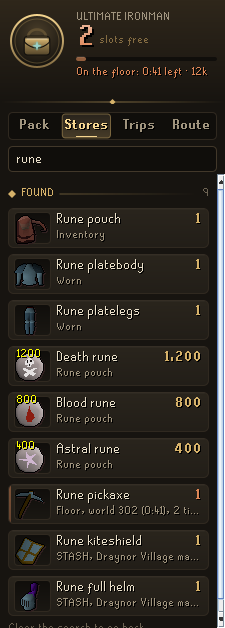
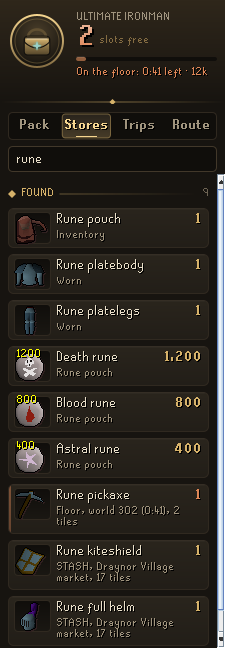
Wrap long names and notes in the panel instead of cutting them off
Rows, card titles and quiet lines now grow to fit their text, so a
deathbank's reclaim note or a noting place always reads in full.

diff --git a/src/main/java/com/codex/nomad/ui/Row.java b/src/main/java/com/codex/nomad/ui/Row.java
@@ -2,11 +2,12 @@ package com.codex.nomad.ui;
 
 import java.awt.BorderLayout;
 import java.awt.Color;
-import java.awt.Dimension;
 import java.awt.FontMetrics;
 import java.awt.Graphics;
 import java.awt.Graphics2D;
 import java.awt.image.BufferedImage;
+import java.util.Collections;
+import java.util.List;
 import javax.swing.JComponent;
 import javax.swing.border.EmptyBorder;
 
@@ -31,7 +32,7 @@ class Row extends Card
 			+ (note == null ? "" : "<br>" + Ui.escape(note)) + "</html>");
 	}
 
-	private static final class Body extends JComponent
+	private static final class Body extends Fitted
 	{
 		private final int icon;
 		private final long qty;
@@ -50,8 +51,13 @@ class Row extends Card
 			this.figure = figure;
 			this.figureColor = figureColor;
 			this.note = note;
-			setOpaque(false);
-			setPreferredSize(new Dimension(10, icon >= 0 ? Row.HEIGHT - 4 : note == null ? 18 : 32));
+		}
+
+		@Override
+		int heightFor(int width)
+		{
+			int h = lay(null, width, icon >= 0 ? Well.SIZE + 10 : 0, 14, 15);
+			return icon >= 0 ? Math.max(Row.HEIGHT - 4, h) : h;
 		}
 
 		@Override
@@ -59,7 +65,6 @@ class Row extends Card
 		{
 			Graphics2D g = (Graphics2D) graphics.create();
 			Theme.smooth(g);
-			int w = getWidth();
 			int x = 0;
 			if (icon >= 0)
 			{
@@ -72,28 +77,55 @@ class Row extends Card
 				}
 				x = Well.SIZE + 10;
 			}
-			g.setFont(Theme.title());
-			FontMetrics bold = g.getFontMetrics();
-			int fw = figure == null ? 0 : bold.stringWidth(figure);
-			if (figure != null)
-			{
-				Ui.shadowed(g, figure, w - fw, 14, figureColor);
-			}
-			g.setFont(Theme.body());
-			FontMetrics body = g.getFontMetrics();
-			Ui.shadowed(g, Ui.clip(name, body, w - x - fw - 6), x, 14, Theme.TEXT);
-			if (note != null)
-			{
-				g.setFont(Theme.small());
-				FontMetrics small = g.getFontMetrics();
-				Ui.shadowed(g, Ui.clip(note, small, w - x), x, 29, Theme.TEXT_MUTED);
-			}
+			lay(g, getWidth(), x, 14, 15);
 			g.dispose();
+		}
+
+		private int lay(Graphics2D g, int w, int x, int top, int gap)
+		{
+			return Row.lay(this, g, w, x, top, gap, name, figure, figureColor, note);
 		}
 	}
 
+	/**
+	 * Paints a name with its figure and a quieter note beneath, both wrapping to the width, or
+	 * with no graphics only measures them.
+	 *
+	 * @return the height used
+	 */
+	static int lay(JComponent c, Graphics2D g, int w, int x, int top, int gap, String name, String figure, Color figureColor, String note)
+	{
+		FontMetrics bold = c.getFontMetrics(Theme.title());
+		FontMetrics body = c.getFontMetrics(Theme.body());
+		FontMetrics small = c.getFontMetrics(Theme.small());
+		int fw = figure == null ? 0 : bold.stringWidth(figure);
+		List<String> names = Ui.wrap(name, body, w - x - fw - 6);
+		List<String> notes = note == null ? Collections.emptyList() : Ui.wrap(note, small, w - x);
+		int noteTop = top + (names.size() - 1) * 13 + gap;
+		int bottom = notes.isEmpty() ? top + (names.size() - 1) * 13 + 4 : noteTop + (notes.size() - 1) * 11 + 4;
+		if (g != null)
+		{
+			if (figure != null)
+			{
+				g.setFont(Theme.title());
+				Ui.shadowed(g, figure, w - fw, top, figureColor);
+			}
+			g.setFont(Theme.body());
+			for (int i = 0; i < names.size(); i++)
+			{
+				Ui.shadowed(g, names.get(i), x, top + i * 13, Theme.TEXT);
+			}
+			g.setFont(Theme.small());
+			for (int i = 0; i < notes.size(); i++)
+			{
+				Ui.shadowed(g, notes.get(i), x, noteTop + i * 11, Theme.TEXT_MUTED);
+			}
+		}
+		return bottom;
+	}
+
 	/** A title and figure with an optional quiet line, for use inside another card. */
-	static final class Plain extends JComponent
+	static final class Plain extends Fitted
 	{
 		private final String name;
 		private final String figure;
@@ -106,9 +138,13 @@ class Row extends Card
 			this.figure = figure == null || figure.isEmpty() ? null : figure;
 			this.figureColor = figureColor;
 			this.note = note == null || note.isEmpty() ? null : note;
-			setOpaque(false);
-			setPreferredSize(new Dimension(10, this.note == null ? 16 : 30));
 			setToolTipText(this.note == null ? name : "<html><b>" + Ui.escape(name) + "</b><br>" + Ui.escape(this.note) + "</html>");
+		}
+
+		@Override
+		int heightFor(int width)
+		{
+			return Row.lay(this, null, width, 0, 13, 14, name, figure, figureColor, note);
 		}
 
 		@Override
@@ -116,21 +152,7 @@ class Row extends Card
 		{
 			Graphics2D g = (Graphics2D) graphics.create();
 			Theme.smooth(g);
-			int w = getWidth();
-			g.setFont(Theme.title());
-			FontMetrics bold = g.getFontMetrics();
-			int fw = figure == null ? 0 : bold.stringWidth(figure);
-			if (figure != null)
-			{
-				Ui.shadowed(g, figure, w - fw, 13, figureColor);
-			}
-			g.setFont(Theme.body());
-			Ui.shadowed(g, Ui.clip(name, g.getFontMetrics(), w - fw - 6), 0, 13, Theme.TEXT);
-			if (note != null)
-			{
-				g.setFont(Theme.small());
-				Ui.shadowed(g, Ui.clip(note, g.getFontMetrics(), w), 0, 27, Theme.TEXT_MUTED);
-			}
+			Row.lay(this, g, getWidth(), 0, 13, 14, name, figure, figureColor, note);
 			g.dispose();
 		}
 	}

diff --git a/src/main/java/com/codex/nomad/ui/Line.java b/src/main/java/com/codex/nomad/ui/Line.java
@@ -1,15 +1,17 @@
 package com.codex.nomad.ui;
 
 import java.awt.Color;
-import java.awt.Dimension;
 import java.awt.FontMetrics;
 import java.awt.Graphics;
 import java.awt.Graphics2D;
 import java.awt.geom.Ellipse2D;
-import javax.swing.JComponent;
+import java.util.List;
 
-/** One quiet line: an optional coloured dot, a label, and a figure to the right. */
-public class Line extends JComponent
+/**
+ * One quiet line: an optional coloured dot, a label, and a figure to the right. A label too long
+ * for the width wraps onto further rows rather than being cut short.
+ */
+public class Line extends Fitted
 {
 	private final String label;
 	private final String figure;
@@ -24,15 +26,45 @@ public class Line extends JComponent
 
 	public Line(String label, String figure, Color dot, Color labelColor, Color figureColor)
 	{
-		this.label = label;
-		this.figure = figure;
+		this.label = label == null ? "" : label;
+		this.figure = figure == null || figure.isEmpty() ? null : figure;
 		this.dot = dot;
 		this.labelColor = labelColor;
 		this.figureColor = figureColor;
-		setOpaque(false);
 		setFont(Theme.small());
-		setPreferredSize(new Dimension(10, 15));
-		setToolTipText(figure == null || figure.isEmpty() ? label : label + ": " + figure);
+		setToolTipText(this.figure == null ? this.label : this.label + ": " + this.figure);
+	}
+
+	/** Leading spaces indent every row of the label, not just the first. */
+	private int indent(FontMetrics fm)
+	{
+		int n = 0;
+		while (n < label.length() && label.charAt(n) == ' ')
+		{
+			n++;
+		}
+		return (dot != null ? 11 : 0) + fm.stringWidth(label.substring(0, n));
+	}
+
+	/** The distance between rows: 13 pixels for the small font, more for a larger one. */
+	private static int row(FontMetrics fm)
+	{
+		return Math.max(13, fm.getAscent() + 4);
+	}
+
+	private List<String> rows(FontMetrics fm, int width)
+	{
+		int fw = figure == null ? 0 : fm.stringWidth(figure) + 6;
+		return Ui.wrap(label.trim(), fm, width - indent(fm) - fw);
+	}
+
+	@Override
+	int heightFor(int width)
+	{
+		FontMetrics fm = getFontMetrics(getFont());
+		int n = rows(fm, width).size();
+		int one = Math.max(15, fm.getAscent() + 6);
+		return n == 1 ? one : n * row(fm) + 2;
 	}
 
 	@Override
@@ -43,20 +75,22 @@ public class Line extends JComponent
 		g.setFont(getFont());
 		FontMetrics fm = g.getFontMetrics();
 		int w = getWidth();
-		int base = (getHeight() + fm.getAscent()) / 2 - 1;
-		int x = 0;
+		List<String> rows = rows(fm, w);
+		int base = rows.size() == 1 ? (getHeight() + fm.getAscent()) / 2 - 1 : fm.getAscent();
 		if (dot != null)
 		{
 			g.setColor(dot);
-			g.fill(new Ellipse2D.Float(1, getHeight() / 2f - 3, 6, 6));
-			x = 11;
+			g.fill(new Ellipse2D.Float(1, base - fm.getAscent() / 2f - 2, 6, 6));
 		}
-		int fw = figure == null ? 0 : fm.stringWidth(figure);
 		if (figure != null)
 		{
-			Ui.shadowed(g, figure, w - fw, base, figureColor);
+			Ui.shadowed(g, figure, w - fm.stringWidth(figure), base, figureColor);
 		}
-		Ui.shadowed(g, Ui.clip(label, fm, w - x - fw - 6), x, base, labelColor);
+		int x = indent(fm);
+		for (int i = 0; i < rows.size(); i++)
+		{
+			Ui.shadowed(g, rows.get(i), x, base + i * row(fm), labelColor);
+		}
 		g.dispose();
 	}
 }

diff --git a/src/main/java/com/codex/nomad/ui/Fitted.java b/src/main/java/com/codex/nomad/ui/Fitted.java
@@ -1,0 +1,46 @@
+package com.codex.nomad.ui;
+
+import java.awt.Dimension;
+import javax.swing.JComponent;
+
+/**
+ * A painted component whose height follows its width, so text can wrap instead of being cut.
+ * Before it has a width it guesses one; once laid out at a different width it asks for another
+ * layout at the height that width needs.
+ */
+abstract class Fitted extends JComponent
+{
+	/** The width guessed before the first layout: a card's inside in the side panel. */
+	static final int GUESS = NomadPanel.WIDTH - 26;
+
+	Fitted()
+	{
+		setOpaque(false);
+	}
+
+	/** The height the component needs at this width. */
+	abstract int heightFor(int width);
+
+	@Override
+	public Dimension getPreferredSize()
+	{
+		if (isPreferredSizeSet())
+		{
+			return super.getPreferredSize();
+		}
+		int w = getWidth() > 0 ? getWidth() : GUESS;
+		return new Dimension(10, heightFor(w));
+	}
+
+	@Override
+	@SuppressWarnings("deprecation")
+	public void reshape(int x, int y, int w, int h)
+	{
+		int was = getWidth();
+		super.reshape(x, y, w, h);
+		if (w > 0 && w != was && heightFor(w) != h)
+		{
+			revalidate();
+		}
+	}
+}

diff --git a/src/main/java/com/codex/nomad/ui/Ui.java b/src/main/java/com/codex/nomad/ui/Ui.java
@@ -84,4 +84,46 @@ public final class Ui
 	{
 		return skill.getName();
 	}
+
+	/**
+	 * Breaks text into rows no wider than the room, at spaces where it can and inside a word
+	 * only when one word is wider than a whole row, so every letter shows.
+	 */
+	public static java.util.List<String> wrap(String text, java.awt.FontMetrics fm, int room)
+	{
+		java.util.List<String> rows = new java.util.ArrayList<>();
+		if (text == null || text.isEmpty())
+		{
+			rows.add("");
+			return rows;
+		}
+		room = Math.max(20, room);
+		String row = "";
+		for (String word : text.trim().split(" +"))
+		{
+			String next = row.isEmpty() ? word : row + " " + word;
+			if (fm.stringWidth(next) <= room)
+			{
+				row = next;
+				continue;
+			}
+			if (!row.isEmpty())
+			{
+				rows.add(row);
+			}
+			row = word;
+			while (fm.stringWidth(row) > room && row.length() > 1)
+			{
+				int cut = row.length() - 1;
+				while (cut > 1 && fm.stringWidth(row.substring(0, cut)) > room)
+				{
+					cut--;
+				}
+				rows.add(row.substring(0, cut));
+				row = row.substring(cut);
+			}
+		}
+		rows.add(row);
+		return rows;
+	}
 }
